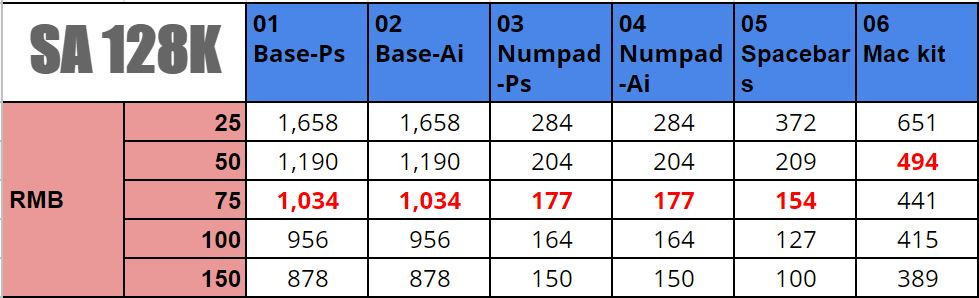
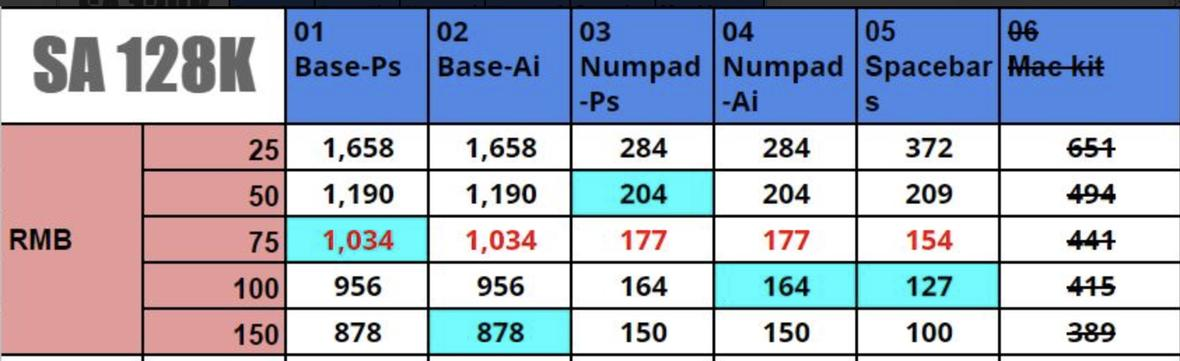
There are 5 files have been modified at 2019-03-21 07:36:43 . 	-rw-r--r-- 1 jzou ops 132972 Mar 21 07:35 assets/images/sa-keycaps/128k/price1.jpg 	-rw-r--r-- 1 jzou ops 62862 Mar 21 07:36 assets/images/sa-keycaps/128k/price2.jpg 	-rw-r--r-- 1 jzou ops 3686 Mar 21 07:34 docs/sa-keycaps/128K.md 	-rw-r

diff --git a/script/generate_md.py b/script/generate_md.py
@@ -85,7 +85,7 @@ for line in lines[9:]:
     kitRMB = line.split("|")[2]
     if len(kitUSD) < 1 and len(kitRMB) < 1:
         kitUSD = 'unknown'
-    elif len(kitRMB) > 1:
+    elif len(kitUSD) < 1 and len(kitRMB) > 1:
         kitUSD = float(kitRMB) / rate
     else:
         kitUSD = float(kitUSD)

diff --git a/docs/sa-keycaps/128K.md b/docs/sa-keycaps/128K.md
@@ -22,12 +22,12 @@ NOTE: USD to RMB exchange rate is 6.73
 
 | Name          | Price(Taobao)    |  Price(RMB) | Quantity |
 | ------------- | ------------ |  ---------- | -------- |
-|[AI](#ai)|153.64|1034.00|unknown|
-|[PS](#ps)|153.64|1034.00|unknown|
-|[Numpad AI](#numpad-ai)|26.30|177.00|unknown|
-|[Numpad PS](#numpad-ps)|26.30|177.00|unknown|
-|[Spacebars](#spacebars)|22.88|154.00|unknown|
-|[Mac](#mac)|73.40|494.00|unknown|
+|[AI](#ai)|138.00|878.00|165|
+|[PS](#ps)|162.00|1034.00|82|
+|[Numpad AI](#numpad-ai)|26.00|164.00|110|
+|[Numpad PS](#numpad-ps)|32.00|204.00|60|
+|[Spacebars](#spacebars)|20.00|127.00|115|
+|[~~Mac~~](#~~mac~~)|77.00|494.00|unknown|
 
 <img src="{{ 'assets/images/sa-keycaps/128k/price1.jpg' | relative_url }}" atl="price1" class="image featured">
 <img src="{{ 'assets/images/sa-keycaps/128k/price2.jpg' | relative_url }}" atl="price2" class="image featured">
@@ -35,28 +35,28 @@ NOTE: USD to RMB exchange rate is 6.73
 
 ## Kits
 ### AI
-**Price(Taobao):** 153.64    **Price(RMB):** 1034.00    **Quantity:** unknown
+**Price(Taobao):** 138.00    **Price(RMB):** 878.00    **Quantity:** 165
 <img src="{{ 'assets/images/sa-keycaps/128k/kits_pics/ai.jpg' | relative_url }}" alt="AI" class="image featured">
 
 ### PS
-**Price(Taobao):** 153.64    **Price(RMB):** 1034.00    **Quantity:** unknown
+**Price(Taobao):** 162.00    **Price(RMB):** 1034.00    **Quantity:** 82
 <img src="{{ 'assets/images/sa-keycaps/128k/kits_pics/ps.jpg' | relative_url }}" alt="PS" class="image featured">
 
 ### Numpad AI
-**Price(Taobao):** 26.30    **Price(RMB):** 177.00    **Quantity:** unknown
+**Price(Taobao):** 26.00    **Price(RMB):** 164.00    **Quantity:** 110
 <img src="{{ 'assets/images/sa-keycaps/128k/kits_pics/numpad-ai.jpg' | relative_url }}" alt="Numpad AI" class="image featured">
 
 ### Numpad PS
-**Price(Taobao):** 26.30    **Price(RMB):** 177.00    **Quantity:** unknown
+**Price(Taobao):** 32.00    **Price(RMB):** 204.00    **Quantity:** 60
 <img src="{{ 'assets/images/sa-keycaps/128k/kits_pics/numpad-ps.jpg' | relative_url }}" alt="Numpad PS" class="image featured">
 
 ### Spacebars
-**Price(Taobao):** 22.88    **Price(RMB):** 154.00    **Quantity:** unknown
+**Price(Taobao):** 20.00    **Price(RMB):** 127.00    **Quantity:** 115
 <img src="{{ 'assets/images/sa-keycaps/128k/kits_pics/spacebars.jpg' | relative_url }}" alt="Spacebars" class="image featured">
 
-### Mac
-**Price(Taobao):** 73.40    **Price(RMB):** 494.00    **Quantity:** unknown
-<img src="{{ 'assets/images/sa-keycaps/128k/kits_pics/mac.jpg' | relative_url }}" alt="Mac" class="image featured">
+### ~~Mac~~
+**Price(Taobao):** 77.00    **Price(RMB):** 494.00    **Quantity:** unknown
+<img src="{{ 'assets/images/sa-keycaps/128k/kits_pics/~~mac~~.png' | relative_url }}" alt="~~Mac~~" class="image featured">
 
 
 ## Info
